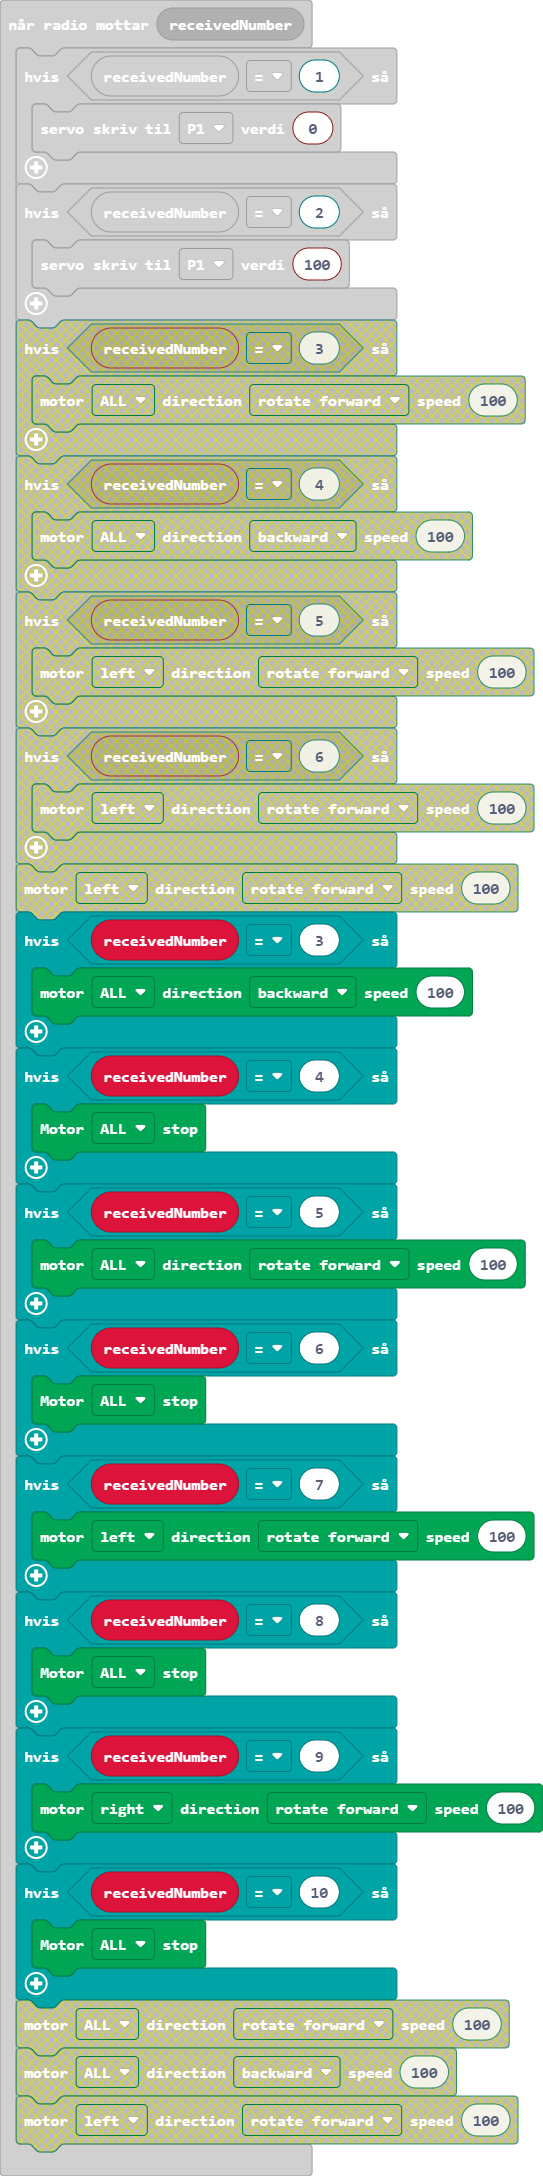
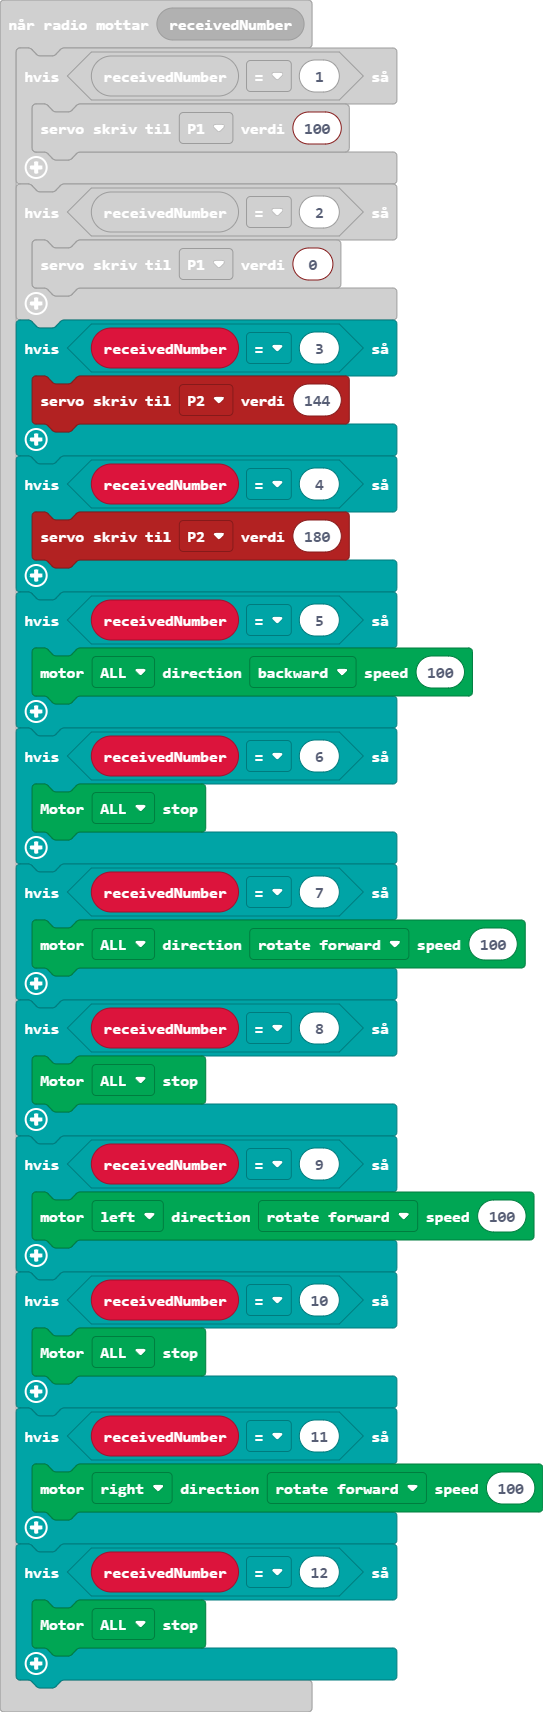
Oppdater main.blocks, main.ts

diff --git a/main.ts b/main.ts
@@ -1,32 +1,38 @@
 radio.onReceivedNumber(function (receivedNumber) {
     if (receivedNumber == 1) {
-        pins.servoWritePin(AnalogPin.P1, 0)
-    }
-    if (receivedNumber == 2) {
         pins.servoWritePin(AnalogPin.P1, 100)
     }
+    if (receivedNumber == 2) {
+        pins.servoWritePin(AnalogPin.P1, 0)
+    }
     if (receivedNumber == 3) {
-        DFRobotMaqueenPlus.mototRun(Motors.ALL, Dir.CCW, 100)
+        pins.servoWritePin(AnalogPin.P2, 144)
     }
     if (receivedNumber == 4) {
-        DFRobotMaqueenPlus.mototStop(Motors.ALL)
+        pins.servoWritePin(AnalogPin.P2, 180)
     }
     if (receivedNumber == 5) {
-        DFRobotMaqueenPlus.mototRun(Motors.ALL, Dir.CW, 100)
+        DFRobotMaqueenPlus.mototRun(Motors.ALL, Dir.CCW, 100)
     }
     if (receivedNumber == 6) {
         DFRobotMaqueenPlus.mototStop(Motors.ALL)
     }
     if (receivedNumber == 7) {
-        DFRobotMaqueenPlus.mototRun(Motors.M1, Dir.CW, 100)
+        DFRobotMaqueenPlus.mototRun(Motors.ALL, Dir.CW, 100)
     }
     if (receivedNumber == 8) {
         DFRobotMaqueenPlus.mototStop(Motors.ALL)
     }
     if (receivedNumber == 9) {
-        DFRobotMaqueenPlus.mototRun(Motors.M2, Dir.CW, 100)
+        DFRobotMaqueenPlus.mototRun(Motors.M1, Dir.CW, 100)
     }
     if (receivedNumber == 10) {
+        DFRobotMaqueenPlus.mototStop(Motors.ALL)
+    }
+    if (receivedNumber == 11) {
+        DFRobotMaqueenPlus.mototRun(Motors.M2, Dir.CW, 100)
+    }
+    if (receivedNumber == 12) {
         DFRobotMaqueenPlus.mototStop(Motors.ALL)
     }
 })
